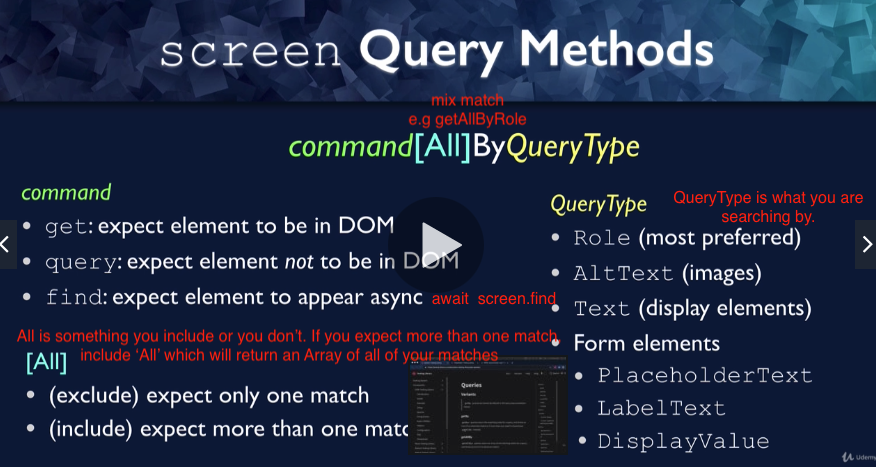
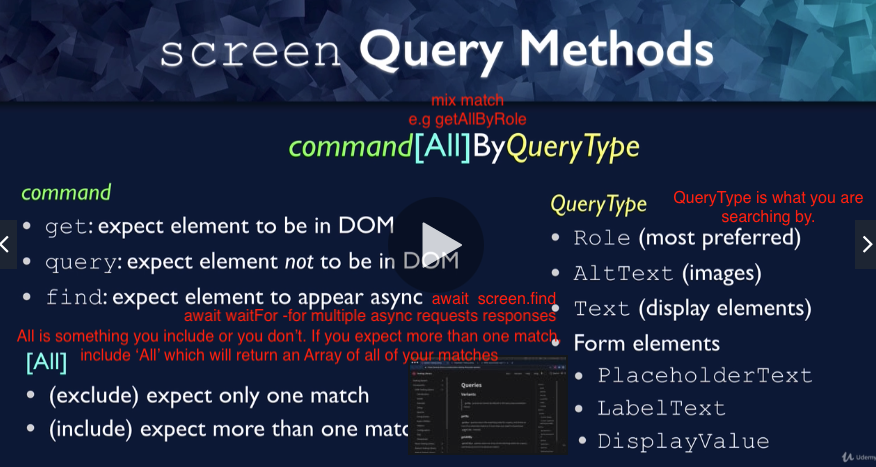
waitFor to handle multiple requests response objects

Changed region(s): [[0.2158, 0.6595, 0.6473, 0.6895]]

diff --git a/sundae-testing-app/src/pages/entry/Options.jsx b/sundae-testing-app/src/pages/entry/Options.jsx
@@ -2,10 +2,12 @@ import React, { useEffect, useState } from 'react';
 import axios from 'axios';
 import ScoopOption from './ScoopOption';
 import { Row } from 'react-bootstrap';
+import ToppingOption from './ToppingOption';
+import AlertBanner from '../../components/AlertBanner';
 
 const Options = ({ optionType }) => {
   const [items, setItems] = useState([]);
-  // console.log(items);
+  const [error, setError] = useState(false);
 
   // optionType is 'scoops' or 'toppings'
   useEffect(() => {
@@ -15,24 +17,23 @@ const Options = ({ optionType }) => {
       .get(`http://localhost:3030/${optionType}`)
       .then(response => {
         if (isMounted) {
-          setItems(response.data)
+          setItems(response.data);
         }
       })
       .catch(err => {
         // TODO: handle error response
         if (isMounted) {
-          console.log(err.message);
+          setError(true);
         }
       });
 
-      // clean up
-      return () => isMounted = false;
-      
+    // clean up
+    return () => (isMounted = false);
   }, [optionType]);
 
   // TODO: replace `null` with ToppingOption when available
   // components to render based on prop - optionType
-  const ItemComponent = optionType === 'scoops' ? ScoopOption : null;
+  const ItemComponent = optionType === 'scoops' ? ScoopOption : ToppingOption;
 
   // render particular component with data
   const optionItems = items.map(item => (
@@ -42,6 +43,10 @@ const Options = ({ optionType }) => {
       imagePath={item.imagePath}
     />
   ));
+
+  if (error) {
+    return <AlertBanner />;
+  }
 
   return <Row>{optionItems}</Row>;
 };

diff --git a/sundae-testing-app/src/pages/entry/tests/OrderEntry.test.jsx b/sundae-testing-app/src/pages/entry/tests/OrderEntry.test.jsx
@@ -1,0 +1,40 @@
+import { render, screen, waitFor } from '@testing-library/react';
+import OrderEntry from '../OrderEntry';
+
+// to override handlers to get Error Response from mock server,
+import { rest } from 'msw';
+
+// need to import our mock server
+import { server } from '../../../mocks/server';
+
+test('handles error for scoops and topping routes', async () => {
+  // override handlers to get Error Response from mock server
+  // we are going to use mock server's method - reset handlers
+  // Rest handlers method takes handlers as arguments & it will just RESET
+  // any handlers that have those endpoints for the server.
+  server.resetHandlers(
+    // Two args
+    // First Arg here will be an handler that will return ERROR RESPONSE object from scoops endpoint
+    rest.get('http://localhost:3030/scoops', (req, res, ctx) =>
+      // Respond with "500 Internal Server Error" status for this test.
+      res(ctx.status(500))
+    ),
+    // Second Arg here is similar as above but for toppings endpoint
+    rest.get('http://localhost:3030/toppings', (req, res, ctx) =>
+      res(ctx.status(500))
+    )
+  );
+
+  // rendering our component
+  render(<OrderEntry />);
+
+  // When in need to wait for any period of time you can use 'waitFor'
+  // Here, we want to wait until we have TWO alerts
+  await waitFor(async () => {
+    const alerts = await screen.findAllByRole('alert');
+    expect(alerts).toHaveLength(2);
+  });
+});
+
+// dummy test
+test.skip('not a real test', () => {});

diff --git a/sundae-testing-app/src/pages/entry/tests/Options.test.jsx b/sundae-testing-app/src/pages/entry/tests/Options.test.jsx
@@ -21,3 +21,21 @@ test('displays image for each scoop option from server', async () => {
   const altText = scoopImages.map(element => element.alt);
   expect(altText).toEqual(['Chocolate scoop', 'Vanilla scoop']);
 });
+
+test('Displays image for each toppings option from server', async () => {
+  // Mock Service Worker will return three toppings from server
+  render(<Options optionType='toppings' />);
+
+  // find images, expect 3 based on what msw returns
+  // 'topping$' to indicate the letter 'topping' will be at the end of the string
+  const images = await screen.findAllByRole('img', { name: /topping$/i });
+  expect(images).toHaveLength(3);
+
+  // check the actual alt text for the images
+  const imageTitles = images.map(img => img.alt);
+  expect(imageTitles).toEqual([
+    'Cherries topping',
+    'M&Ms topping',
+    'Hot fudge topping',
+  ]);
+});

diff --git a/sundae-testing-app/src/components/AlertBanner.jsx b/sundae-testing-app/src/components/AlertBanner.jsx
@@ -1,0 +1,23 @@
+import React from 'react';
+import { Alert } from 'react-bootstrap';
+
+const alertBackground = {
+  color: 'black',
+};
+const AlertBanner = ({ message, variant }) => {
+  // if message prop is truthy then just set that message as an arg
+  // or message is falsey, set it to our default message here
+  const alertMessage =
+    message || 'An unexpected error occurred. Please try again later.';
+
+  // same as above
+  const alertVariant = variant || 'danger';
+
+  return (
+    <Alert variant={alertVariant} style={alertBackground}>
+      {alertMessage}
+    </Alert>
+  );
+};
+
+export default AlertBanner;

diff --git a/sundae-testing-app/src/pages/entry/ToppingOption.jsx b/sundae-testing-app/src/pages/entry/ToppingOption.jsx
@@ -1,0 +1,16 @@
+import React from 'react';
+import { Col } from 'react-bootstrap';
+
+const ToppingOption = ({ name, imagePath }) => {
+  return (
+    <Col xs={12} sm={6} md={4} lg={3} style={{ textAlign: 'center' }}>
+      <img
+        style={{ width: '75%' }}
+        src={`http://localhost:3030/${imagePath}`}
+        alt={`${name} topping`}
+      />
+    </Col>
+  );
+};
+
+export default ToppingOption;

diff --git a/sundae-testing-app/src/mocks/handlers.js b/sundae-testing-app/src/mocks/handlers.js
@@ -14,4 +14,14 @@ export const handlers = [
       ])
     );
   }),
+
+  rest.get('http://localhost:3030/toppings', (req, res, ctx) => {
+    return res(
+      ctx.json([
+        { name: 'Cherries', imagePath: '/images/cherries.png' },
+        { name: 'M&Ms', imagePath: '/images/m-and-ms.png' },
+        { name: 'Hot fudge', imagePath: '/images/hot-fudge.png' },
+      ])
+    );
+  }),
 ];

diff --git a/sundae-testing-app/src/App.js b/sundae-testing-app/src/App.js
@@ -1,11 +1,11 @@
-import Options from './pages/entry/Options';
+import OrderEntry from './pages/entry/OrderEntry';
 import SummaryForm from './pages/summary/SummaryForm';
 
 function App() {
   return (
     <div>
       <h3>Got Sundae!</h3>
-      <Options optionType='scoops' />
+      <OrderEntry />
       <SummaryForm />
     </div>
   );

diff --git a/sundae-testing-app/src/pages/entry/OrderEntry.jsx b/sundae-testing-app/src/pages/entry/OrderEntry.jsx
@@ -1,0 +1,13 @@
+import React from 'react';
+import Options from './Options';
+
+const OrderEntry = () => {
+  return (
+    <div>
+      <Options optionType='scoops' />
+      <Options optionType='toppings' />
+    </div>
+  );
+};
+
+export default OrderEntry;
